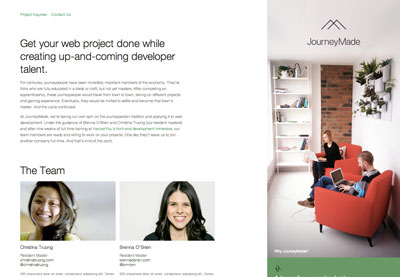
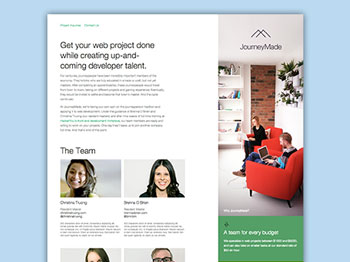
last commit before tomorrow

diff --git a/style.css b/style.css
@@ -4,4 +4,4 @@ Description: Cutsom theme for my portfolio site, based on the HY theme built by 
 Version: 1.0
 Author: Winter Wei 
 Author URI: http://winterwei.com */
-article,aside,details,figcaption,figure,footer,header,hgroup,nav,section,summary{display:block}audio,canvas,video{display:inline-block}audio:not([controls]){display:none;height:0}[hidden]{display:none}html{font-family:sans-serif;-webkit-text-size-adjust:100%;-ms-text-size-adjust:100%}a:focus{outline:thin dotted}a:active,a:hover{outline:0}h1{font-size:2em}abbr[title]{border-bottom:1px dotted}b,strong{font-weight:700}dfn{font-style:italic}mark{background:#ff0;color:#000}code,kbd,pre,samp{font-family:monospace, serif;font-size:1em}pre{white-space:pre-wrap;word-wrap:break-word}q{quotes:\201C \201D \2018 \2019}small{font-size:80%}sub,sup{font-size:75%;line-height:0;position:relative;vertical-align:baseline}sup{top:-.5em}sub{bottom:-.25em}img{border:0}svg:not(:root){overflow:hidden}fieldset{border:1px solid silver;margin:0 2px;padding:.35em .625em .75em}button,input,select,textarea{font-family:inherit;font-size:100%;margin:0}button,input{line-height:normal}button,html input[type=button],input[type=reset],input[type=submit]{-webkit-appearance:button;cursor:pointer}button[disabled],input[disabled]{cursor:default}input[type=checkbox],input[type=radio]{box-sizing:border-box;padding:0}input[type=search]{-webkit-appearance:textfield;box-sizing:content-box}input[type=search]::-webkit-search-cancel-button,input[type=search]::-webkit-search-decoration{-webkit-appearance:none}textarea{overflow:auto;vertical-align:top}table{border-collapse:collapse;border-spacing:0}body,figure{margin:0}legend,button::-moz-focus-inner,input::-moz-focus-inner{border:0;padding:0}*{box-sizing:border-box}.clearfix:after{content:".";display:block;clear:both;visibility:hidden;line-height:0;height:0}.clearfix{display:block}html[xmlns] .clearfix{display:block}* html .clearfix{height:1%}img{max-width:100%}.aligncenter{text-align:center;margin:0 auto}.alignleft{float:left}.alignright{float:right}img.alignleft{padding-right:5px}img.alignright{padding-left:5px}.clear{width:100%;float:left;clear:both}body{width:100%;*zoom:1}body:before,body:after{content:"";display:table}body:after{clear:both}body{color:#335}body,html{height:100%}h1,h2,h3{font-family:Oswald}h2{font-size:32px;font-weight:300;line-height:0.5em}h3{font-size:24px;font-weight:300;line-height:1.5em}p{font-family:lato;font-size:18px;font-weight:300;line-height:1.5em;letter-spacing:1px}a{color:#f22259;text-decoration:none}li{list-style:none}.innerWrapper{max-width:1400px;width:70%;margin:0 auto}.left{float:left;width:68%;margin-right:2%}.full{width:100%}.sidebar{width:30%;float:left}.sidebar ul{margin:0;padding:0}.sidebar ul li{list-style:none}.footer{clear:both}header{width:100%;background-color:white;position:fixed;z-index:999;-webkit-transition:all 0.5s ease-in-out;transition:all 0.5s ease-in-out}header.sticky{background-color:#f22259}header.sticky nav.main-nav ul li a{color:white;opacity:.7}header.sticky nav.main-nav ul li a:after{background-color:white}header.sticky nav.main-nav ul li a:hover{opacity:1}header .logo{float:left;display:inline;float:left;width:22.22222%;margin:0 1.38889%}header .logo h1{font-size:24px;font-weight:700;line-height:1.5em;text-transform:uppercase}header .logo a{color:#335}nav{display:inline;float:left;width:72.22222%;margin:0 1.38889%;margin:0;padding:0}nav ul.main-nav-menu{margin:0;padding:0;float:right}nav ul.main-nav-menu li{float:left;padding:0}nav ul.main-nav-menu a{font-family:oswald;font-size:18px;font-weight:300;line-height:1.2em;letter-spacing:1px;color:#f22259;opacity:0.8;position:relative;display:inline-block;padding:25px 30px}nav ul.main-nav-menu a:after{position:absolute;top:96%;width:100%;left:0;height:1px;background:#f22259;content:'';opacity:0;-webkit-transition:height 0.3s, opacity 0.3s, -webkit-transform 0.3s;transition:height 0.3s, opacity 0.3s, transform 0.3s;-webkit-transform:translateY(-20px);-ms-transform:translateY(-20px);transform:translateY(-20px)}nav ul.main-nav-menu a:hover{opacity:1}nav ul.main-nav-menu a:hover:after{height:3px;opacity:1;-webkit-transform:translateY(0px);-ms-transform:translateY(0px);transform:translateY(0px)}section.hero{background:url(images/header-placehoder.png);background-attachment:fixed;background-size:cover;height:100%;padding:250px 0}section.hero h1{font-size:52px;font-weight:700;line-height:1.2em;margin-bottom:10px;letter-spacing:2px}section.hero h2{font-size:24px;font-weight:300;line-height:1.2em;margin-top:0}#about,#skills,#portfolio,#blog,#contact{padding:40px 0}#about .about-image{display:inline;float:left;width:22.22222%;margin:0 1.38889%;padding-top:50px}#about .about-image img{float:left;border-radius:50%}#about .text{display:inline;float:left;width:72.22222%;margin:0 1.38889%;padding-bottom:50px}section.portfolio{background-color:#bfd0dc}#portfolio{width:100%;display:inline;float:left;width:97.22222%;margin:0 1.38889%}#portfolio .col2{display:inline;float:left;width:47.22222%;margin:0 1.38889%;background-color:white;margin-bottom:30px;padding:30px 20px}#portfolio .col2:nth-child(2n){margin-left:0}#portfolio .col2 figure{text-align:center}#portfolio .col2 figure img{box-shadow:0 1px 2px rgba(0,0,0,0.2)}.img-hover{position:relative}.img-hover img{max-width:100%}.img-hover a{position:absolute;z-index:2;top:0;bottom:0;left:0;right:0;text-align:center;padding-top:32%;font-size:20px;background:#f22259;opacity:0}.img-hover a:hover{opacity:0.9;color:white;font-weight:300}section.contact{background-color:#bfd0dc}#contact{display:inline;float:left;width:97.22222%;margin:0 1.38889%}#comments .navigation{padding:0 0 18px}h3#comments-title,h3#reply-title{color:#000000;font-weight:700;font-size:20px;margin-bottom:0}h3#comments-title{padding:24px 0}.commentlist li.comment{border-bottom:1px solid #e7e7e7;line-height:24px;position:relative;clear:both;margin:0 0 24px;padding:0 0 0 56px}.commentlist li:last-child{border-bottom:none;margin-bottom:0}#comments .comment-body ul,#comments .comment-body ol{margin-bottom:18px}#comments .comment-body p:last-child{margin-bottom:6px}#comments .comment-body blockquote p:last-child{margin-bottom:24px}.commentlist ol{list-style:decimal}.commentlist .avatar{position:absolute;top:4px;left:0}.comment-author cite{color:#000000;font-style:normal;font-weight:700}.comment-author .says{font-style:italic}.comment-meta{font-size:12px;margin:0 0 5px}.comment-meta a:link,.comment-meta a:visited{color:#888888;text-decoration:none}.reply{font-size:12px;padding:0 0 24px}.reply a,a.comment-edit-link{color:#888888}.commentlist .children li{border:none;margin:0}#comments .pingback{margin-bottom:18px;padding-bottom:18px;border-bottom:1px solid #e7e7e7}.commentlist li.comment+li.pingback{margin-top:-6px}#comments .pingback p{color:#888888;font-size:12px;line-height:18px;display:block;margin:0}#comments .pingback .url{font-style:italic;font-size:13px}input[type=submit]{color:#333333}#respond{margin-top:24px;border-top:1px solid #e7e7e7;overflow:hidden;position:relative}#respond .comment-notes{margin-bottom:1em}.form-allowed-tags{line-height:1em}.children #respond{margin:0 48px 0 0}h3#reply-title{margin:18px 0}#comments-list #respond{margin:0 0 18px}#cancel-comment-reply-link{font-size:12px;line-height:18px;font-weight:400}#respond .required{color:#ff4b33;font-weight:700}#respond label{color:#888888;font-size:12px}#respond input{width:98%;margin:0 0 9px}#respond textarea{width:98%}#respond dt,#respond dd{color:#888888;font-size:12px;line-height:18px}#respond dd code{font-size:11px}#respond .form-submit{margin:0 0 24px}#respond .form-submit input{width:auto;font-size:14px}#respond dl{margin:0 0 10px}#respond dt{display:inline;font-weight:400}#respond dd{display:inline}p.form-allowed-tags,.nocomments{display:none}.commentlist,.commentlist .children{list-style:none;margin:0}.comment-meta a:active,.comment-meta a:hover,.reply a:hover,a.comment-edit-link:hover{color:#ff4b33}#respond p,#comments-list ul #respond{margin:0}
+article,aside,details,figcaption,figure,footer,header,hgroup,nav,section,summary{display:block}audio,canvas,video{display:inline-block}audio:not([controls]){display:none;height:0}[hidden]{display:none}html{font-family:sans-serif;-webkit-text-size-adjust:100%;-ms-text-size-adjust:100%}a:focus{outline:thin dotted}a:active,a:hover{outline:0}h1{font-size:2em}abbr[title]{border-bottom:1px dotted}b,strong{font-weight:700}dfn{font-style:italic}mark{background:#ff0;color:#000}code,kbd,pre,samp{font-family:monospace, serif;font-size:1em}pre{white-space:pre-wrap;word-wrap:break-word}q{quotes:\201C \201D \2018 \2019}small{font-size:80%}sub,sup{font-size:75%;line-height:0;position:relative;vertical-align:baseline}sup{top:-.5em}sub{bottom:-.25em}img{border:0}svg:not(:root){overflow:hidden}fieldset{border:1px solid silver;margin:0 2px;padding:.35em .625em .75em}button,input,select,textarea{font-family:inherit;font-size:100%;margin:0}button,input{line-height:normal}button,html input[type=button],input[type=reset],input[type=submit]{-webkit-appearance:button;cursor:pointer}button[disabled],input[disabled]{cursor:default}input[type=checkbox],input[type=radio]{box-sizing:border-box;padding:0}input[type=search]{-webkit-appearance:textfield;box-sizing:content-box}input[type=search]::-webkit-search-cancel-button,input[type=search]::-webkit-search-decoration{-webkit-appearance:none}textarea{overflow:auto;vertical-align:top}table{border-collapse:collapse;border-spacing:0}body,figure{margin:0}legend,button::-moz-focus-inner,input::-moz-focus-inner{border:0;padding:0}*{box-sizing:border-box}.clearfix:after{content:".";display:block;clear:both;visibility:hidden;line-height:0;height:0}.clearfix{display:block}html[xmlns] .clearfix{display:block}* html .clearfix{height:1%}img{max-width:100%}.aligncenter{text-align:center;margin:0 auto}.alignleft{float:left}.alignright{float:right}img.alignleft{padding-right:5px}img.alignright{padding-left:5px}.clear{width:100%;float:left;clear:both}body{width:100%;*zoom:1}body:before,body:after{content:"";display:table}body:after{clear:both}body{color:#335}body,html{height:100%}h1,h2,h3{font-family:Oswald}h2{font-size:32px;font-weight:300;letter-spacing:0;line-height:0.5em}h3{font-size:24px;font-weight:300;letter-spacing:0;line-height:1.5em}h4{font-size:18px;font-weight:400;letter-spacing:1px;line-height:1em;margin-bottom:0}p{font-family:lato;font-size:18px;font-weight:300;letter-spacing:0.5px;line-height:1.5em}a{color:#f22259;text-decoration:none}li{list-style:none}.innerWrapper{max-width:1400px;width:70%;margin:0 auto}.left{float:left;width:68%;margin-right:2%}.full{width:100%}.sidebar{width:30%;float:left}.sidebar ul{margin:0;padding:0}.sidebar ul li{list-style:none}.footer{clear:both}header{width:100%;background-color:white;position:fixed;z-index:999;-webkit-transition:all 0.5s ease-in-out;transition:all 0.5s ease-in-out}header.sticky{background-color:#f22259}header.sticky nav.main-nav ul li a{color:white;opacity:.8}header.sticky nav.main-nav ul li a:after{background-color:white}header.sticky nav.main-nav ul li a:hover{opacity:1}header .logo{float:left;display:inline;float:left;width:22.22222%;margin:0 1.38889%}header .logo h1{font-size:24px;font-weight:700;letter-spacing:0;line-height:1.5em;text-transform:uppercase}header .logo a{color:#335}nav{display:inline;float:left;width:72.22222%;margin:0 1.38889%;margin:0;padding:0}nav ul.main-nav-menu{margin:0;padding:0;float:right}nav ul.main-nav-menu li{float:left;padding:0}nav ul.main-nav-menu a{font-family:oswald;font-size:18px;font-weight:300;letter-spacing:0;line-height:1.2em;letter-spacing:1px;color:#f22259;opacity:0.8;position:relative;display:inline-block;padding:25px 30px}nav ul.main-nav-menu a:after{position:absolute;top:96%;width:100%;left:0;height:1px;background:#f22259;content:'';opacity:0;-webkit-transition:height 0.3s, opacity 0.3s, -webkit-transform 0.3s;transition:height 0.3s, opacity 0.3s, transform 0.3s;-webkit-transform:translateY(-20px);-ms-transform:translateY(-20px);transform:translateY(-20px)}nav ul.main-nav-menu a:hover{opacity:1}nav ul.main-nav-menu a:hover:after{height:3px;opacity:1;-webkit-transform:translateY(0px);-ms-transform:translateY(0px);transform:translateY(0px)}section.hero{background:url(images/header-placehoder.png);background-attachment:fixed;background-size:cover;height:100%;padding:250px 0}section.hero h1{font-size:52px;font-weight:700;letter-spacing:2px;line-height:1.2em;margin-bottom:10px}section.hero h2{font-size:24px;font-weight:300;letter-spacing:0;line-height:1.2em;margin-top:0}#about,#skills,#portfolio,#blog,#contact{padding:50px 0 80px}#about .about-image{display:inline;float:left;width:22.22222%;margin:0 1.38889%;padding-top:50px}#about .about-image img{float:left;border-radius:50%}#about .text{display:inline;float:left;width:72.22222%;margin:0 1.38889%;padding-bottom:80px}section.portfolio{background-color:#bfd0dc}#portfolio{display:inline;float:left;width:97.22222%;margin:0 1.38889%}#portfolio .title{margin-bottom:20px}#portfolio .col2{display:inline;float:left;width:47.22222%;margin:0 1.38889%;background-color:white;margin-bottom:3%;padding:2% 0;text-align:center}#portfolio .col2:nth-child(2n){margin-left:0}#portfolio .col2 figure{text-align:center}#portfolio .col2 figure img{box-shadow:0 1px 2px rgba(0,0,0,0.2)}#portfolio .col2 figcaption{padding:0 30px}.img-hover{position:relative}.img-hover img{max-width:100%}.img-hover a{position:absolute;z-index:2;top:0;bottom:0;left:0;right:0;text-align:center;padding-top:25%;font-size:20px;background:#335;opacity:0}.img-hover a:hover{opacity:0.95;color:white;font-weight:300;font-size:24px}section.contact{background-color:#bfd0dc}#contact{display:inline;float:left;width:97.22222%;margin:0 1.38889%}#blog{width:100%;float:left;padding-bottom:80px}#blog .title{padding:1.2%}#blog .col3{width:30%;margin:1.2%;float:left;height:300px;background-color:#f22259;padding:0 20px}#blog .col3 a{color:white}.contact-form{display:inline;float:left;width:97.22222%;margin:0 1.38889%;text-align:center}.contact-form input,.contact-form textarea{padding:10px;border:none}.contact-form input:focus,.contact-form textarea:focus{outline:none}.contact-form ::-webkit-input-placeholder{color:#F785A3;font-family:Lato;font-size:18px;font-weight:100;letter-spacing:0;line-height:1.2em}.contact-form .your-name input{display:inline;float:left;width:47.22222%;margin:0 1.38889%;margin-bottom:20px}.contact-form .your-email input{display:inline;float:left;width:47.22222%;margin:0 1.38889%;margin-bottom:20px}.contact-form .your-message textarea{display:inline;float:left;width:97.22222%;margin:0 1.38889%;margin-bottom:20px}.contact-form input.wpcf7-submit{padding:10px 30px}#comments .navigation{padding:0 0 18px}h3#comments-title,h3#reply-title{color:#000000;font-weight:700;font-size:20px;margin-bottom:0}h3#comments-title{padding:24px 0}.commentlist li.comment{border-bottom:1px solid #e7e7e7;line-height:24px;position:relative;clear:both;margin:0 0 24px;padding:0 0 0 56px}.commentlist li:last-child{border-bottom:none;margin-bottom:0}#comments .comment-body ul,#comments .comment-body ol{margin-bottom:18px}#comments .comment-body p:last-child{margin-bottom:6px}#comments .comment-body blockquote p:last-child{margin-bottom:24px}.commentlist ol{list-style:decimal}.commentlist .avatar{position:absolute;top:4px;left:0}.comment-author cite{color:#000000;font-style:normal;font-weight:700}.comment-author .says{font-style:italic}.comment-meta{font-size:12px;margin:0 0 5px}.comment-meta a:link,.comment-meta a:visited{color:#888888;text-decoration:none}.reply{font-size:12px;padding:0 0 24px}.reply a,a.comment-edit-link{color:#888888}.commentlist .children li{border:none;margin:0}#comments .pingback{margin-bottom:18px;padding-bottom:18px;border-bottom:1px solid #e7e7e7}.commentlist li.comment+li.pingback{margin-top:-6px}#comments .pingback p{color:#888888;font-size:12px;line-height:18px;display:block;margin:0}#comments .pingback .url{font-style:italic;font-size:13px}input[type=submit]{color:#333333}#respond{margin-top:24px;border-top:1px solid #e7e7e7;overflow:hidden;position:relative}#respond .comment-notes{margin-bottom:1em}.form-allowed-tags{line-height:1em}.children #respond{margin:0 48px 0 0}h3#reply-title{margin:18px 0}#comments-list #respond{margin:0 0 18px}#cancel-comment-reply-link{font-size:12px;line-height:18px;font-weight:400}#respond .required{color:#ff4b33;font-weight:700}#respond label{color:#888888;font-size:12px}#respond input{width:98%;margin:0 0 9px}#respond textarea{width:98%}#respond dt,#respond dd{color:#888888;font-size:12px;line-height:18px}#respond dd code{font-size:11px}#respond .form-submit{margin:0 0 24px}#respond .form-submit input{width:auto;font-size:14px}#respond dl{margin:0 0 10px}#respond dt{display:inline;font-weight:400}#respond dd{display:inline}p.form-allowed-tags,.nocomments{display:none}.commentlist,.commentlist .children{list-style:none;margin:0}.comment-meta a:active,.comment-meta a:hover,.reply a:hover,a.comment-edit-link:hover{color:#ff4b33}#respond p,#comments-list ul #respond{margin:0}

diff --git a/css/style.scss b/css/style.scss
@@ -33,14 +33,13 @@ img.alignright    { padding-left: 5px; }
 @import '_grid';
 
 
-
-
 /* =============================================================================
                    Mixins & colors
    ========================================================================== */
-@mixin fontify($fs, $fw, $lh){
+@mixin fontify($fs, $fw, $ls, $lh){
   font-size: $fs;
   font-weight: $fw;
+  letter-spacing: $ls;
   line-height: $lh;
 }
 @mixin link-style{
@@ -61,6 +60,8 @@ img.alignright    { padding-left: 5px; }
 $text:#335;
 $link: #F22259;
 $theBlue: #BFD0DC;
+$blueShade: #94BAD3;
+$dark: #262027;
 $footer: #ededed;
 
 
@@ -82,17 +83,21 @@ h1, h2, h3 {
 }
 
 h2 {
-  @include fontify (32px, 300, 0.5em);
+  @include fontify (32px, 300, 0, 0.5em);
 }
 
 h3 {
-  @include fontify(24px, 300, 1.5em);
+  @include fontify(24px, 300, 0, 1.5em);
+}
+
+h4 {
+  @include fontify(18px, 400, 1px, 1em);
+  margin-bottom: 0;
 }
 
 p {
   font-family: lato;
-  @include fontify(18px, 300, 1.5em);
-  letter-spacing: 1px;
+  @include fontify(18px, 300, 0.5px, 1.5em);
 }
 
 
@@ -164,7 +169,7 @@ header.sticky {
   background-color: $link;
   nav.main-nav ul li a {
     color:white;
-    opacity:.7;
+    opacity:.8;
     &:after {
       background-color: white;
     }
@@ -180,7 +185,7 @@ header .logo {
   @include column(3);
   // width: 30%;
   h1 {
-    @include fontify(24px, 700, 1.5em);
+    @include fontify(24px, 700, 0, 1.5em);
     text-transform: uppercase;
   }
   a {
@@ -207,7 +212,7 @@ nav ul.main-nav-menu {
   }
   a {
     font-family: oswald;
-    @include fontify(18px, 300, 1.2em);
+    @include fontify(18px, 300, 0, 1.2em);
     letter-spacing: 1px;
     color:$link;
     opacity:0.8;
@@ -251,12 +256,11 @@ section.hero {
   padding: 250px 0;
 
     h1 {
-      @include fontify(52px, 700, 1.2em);
+      @include fontify(52px, 700, 2px, 1.2em);
       margin-bottom: 10px;
-      letter-spacing: 2px;
     }
     h2 {
-      @include fontify(24px, 300, 1.2em);
+      @include fontify(24px, 300, 0, 1.2em);
       margin-top:0;
     }
 }
@@ -267,7 +271,7 @@ section.hero {
    ========================================================================== */
 
 #about, #skills, #portfolio, #blog, #contact {
-  padding: 40px 0;
+  padding: 50px 0 80px;
 }
 
 
@@ -288,7 +292,7 @@ section.hero {
   }
   .text {
     @include column(9);
-    padding-bottom: 50px;
+    padding-bottom: 80px;
   }
 }
 
@@ -303,21 +307,31 @@ section.portfolio {
 }
 
 #portfolio {
-  width: 100%;
+  // max-width: 100%;
   @include column(12);
+  .title {
+    margin-bottom: 20px;
+  }
   .col2 {
     &:nth-child(2n) {
       margin-left: 0;
     }
     @include column(6);
     background-color: white;
-    margin-bottom: 30px;
-    padding: 30px 20px;
+    // max-width: 48%;
+    // float: left;
+    // margin-right: 1%;
+    margin-bottom: 3%;
+    padding:2% 0;
+    text-align: center;
     figure {
       text-align: center;
       img {
         box-shadow: 0 1px 2px rgba(0,0,0,.2);      
       }
+    }
+    figcaption {
+      padding: 0 30px;
     }
   }
 }
@@ -335,14 +349,15 @@ section.portfolio {
     left:0;
     right:0;
     text-align: center;
-    padding-top: 32%;
+    padding-top: 25%;
     font-size: 20px;
-    background:$link;
+    background:$text;
     opacity:0;
     &:hover {
-      opacity:0.9;
+      opacity:0.95;
       color:white;
       font-weight: 300;
+      font-size: 24px;
     }
   }
 }
@@ -363,6 +378,74 @@ section.contact {
 
 
 
+/* =============================================================================
+                   Blog
+   ========================================================================== */
+#blog {
+  // @include column(12);
+  width: 100%;
+  .title {
+    padding: 1.2%;
+  }
+  float: left;
+  .col3 {
+    // @include column(4);
+    width: 30%;
+    margin: 1.2%;
+    float:left;
+    height:300px;
+    background-color: $link;
+    padding: 0 20px;
+    a {
+      color:white;
+    } 
+  }
+  padding-bottom: 80px;
+}
+
+
+
+/* =============================================================================
+                   Contact
+   ========================================================================== */
+
+.contact-form {
+  @include column(12);
+  text-align: center;
+  input, textarea {
+    padding: 10px;
+    border:none;
+    &:focus {
+      outline:none;
+    }
+  }
+  ::-webkit-input-placeholder {
+    color:#F785A3;
+    font-family: Lato;
+    @include fontify(18px, 100, 0, 1.2em);
+  }
+
+  .your-name input{
+    @include column(6);
+    margin-bottom: 20px;
+    
+
+  }
+
+  .your-email input {
+    @include column(6);
+    margin-bottom: 20px;
+  }
+  .your-message textarea {
+    @include column(12);
+    margin-bottom: 20px;
+  }
+  input.wpcf7-submit {
+    // @include column(12);
+    padding: 10px 30px;
+  }
+
+}
 
 
 /* =============================================================================

diff --git a/page-home.php b/page-home.php
@@ -40,7 +40,10 @@ get_header();  ?>
 <section class="portfolio main clearfix">
   <div class="innerWrapper clearfix">
     <div id="portfolio">
-      <h2>Things I've done</h2>
+      <div class="title clearfix">
+        <h2>Portfolio</h2>
+        <h3>Things I designed and built</h3>
+      </div>
         <?php 
           $portfolioQuery = new WP_Query(
               array(
@@ -49,16 +52,16 @@ get_header();  ?>
                 )
             ); ?>
         <?php while ($portfolioQuery->have_posts()) : $portfolioQuery->the_post(); ?>
-          <div class="col2">
-            <figure class="img-hover">
-              <?php the_post_thumbnail('large'); ?>
-              <a href="<?php the_permalink(); ?>">View Project</a>
-            </figure>
+            <figure class="col2">
+              <div class="img-hover">
+                <?php the_post_thumbnail('full'); ?>
+                <h3><a href="<?php the_permalink(); ?>">View Project</a></h3>
+              </div>
             <figcaption>
               <h4><?php the_field('portfolio_title') ?></h4>
               <p><?php the_field('short_description') ?></p>
             </figcaption>
-          </div>
+            </figure>
         <?php endwhile; // end the loop?>
         <?php wp_reset_postdata(); ?>
     </div>
@@ -69,18 +72,21 @@ get_header();  ?>
 <section class="blog main clearfix">
   <div class="innerWrapper clearfix">
     <div id="blog">
+    <div class="title clearfix">
+      <h2>Recent Blog</h2>
+    </div>
       <?php 
         $blogQuery = new WP_Query(
             array(
-              'posts_per_page' => 2,
+              'posts_per_page' => 3,
               'post_type' => 'post'
               )
           ); ?>
       <?php while ($blogQuery->have_posts()) : $blogQuery->the_post(); ?>
-        <article class="col2">
-          <h2><a href="<?php the_permalink(); ?>"><?php the_title(); ?></a></h2>
-          <h3><?php the_excerpt(); ?></h3>
-          <p><?php the_field('blog_intro') ?></p>
+        <article class="col3">
+            <h3><a href="<?php the_field('blog_url') ?>"><?php the_title(); ?></a></h3>
+            <p><?php the_field('blog_intro') ?></p>
+            <h4><a href="<?php the_field('blog_url') ?>">Read More</a></h4>
         </article>
       <?php endwhile; // end the loop?>
       <?php wp_reset_postdata(); ?>
@@ -92,6 +98,9 @@ get_header();  ?>
 <section class="contact main clearfix">
   <div class="innerWrapper clearfix">
     <div id="contact">
+    <div class="title clearfix">
+      <h2>Contact Me</h2>
+    </div>
       <div class="contact-msg">
         <p><?php the_field('contact_message') ?></p>
       </div>
